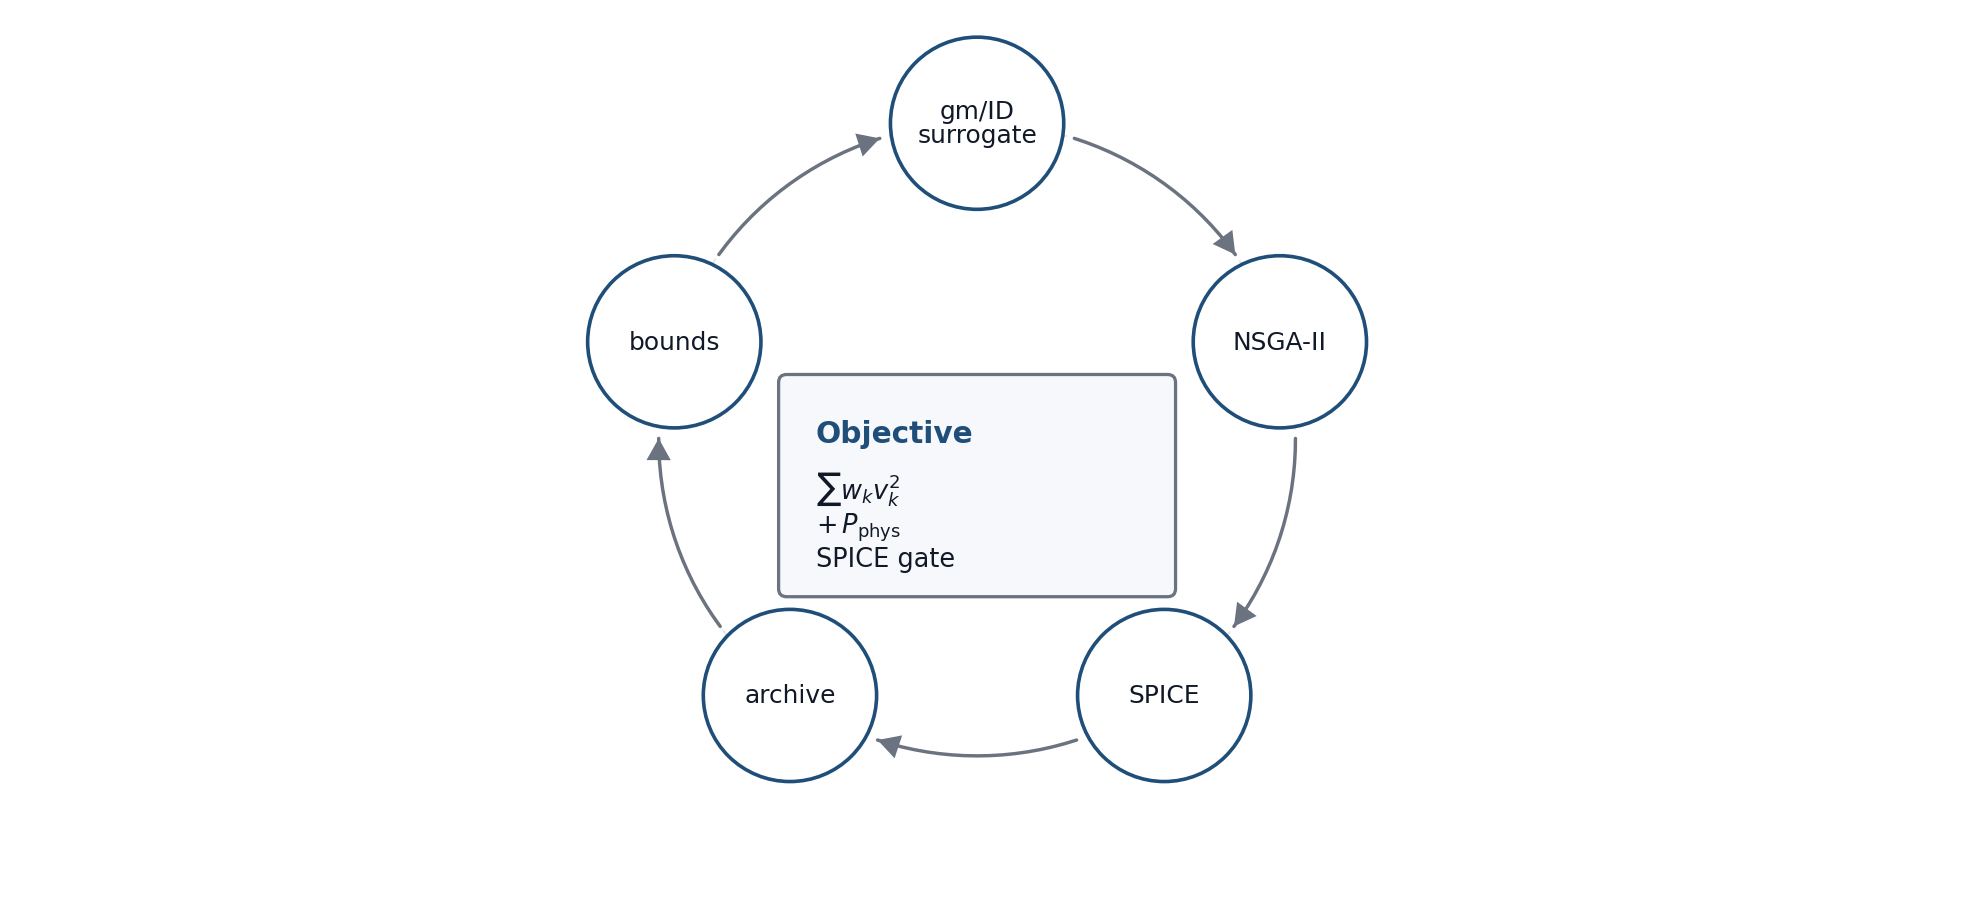
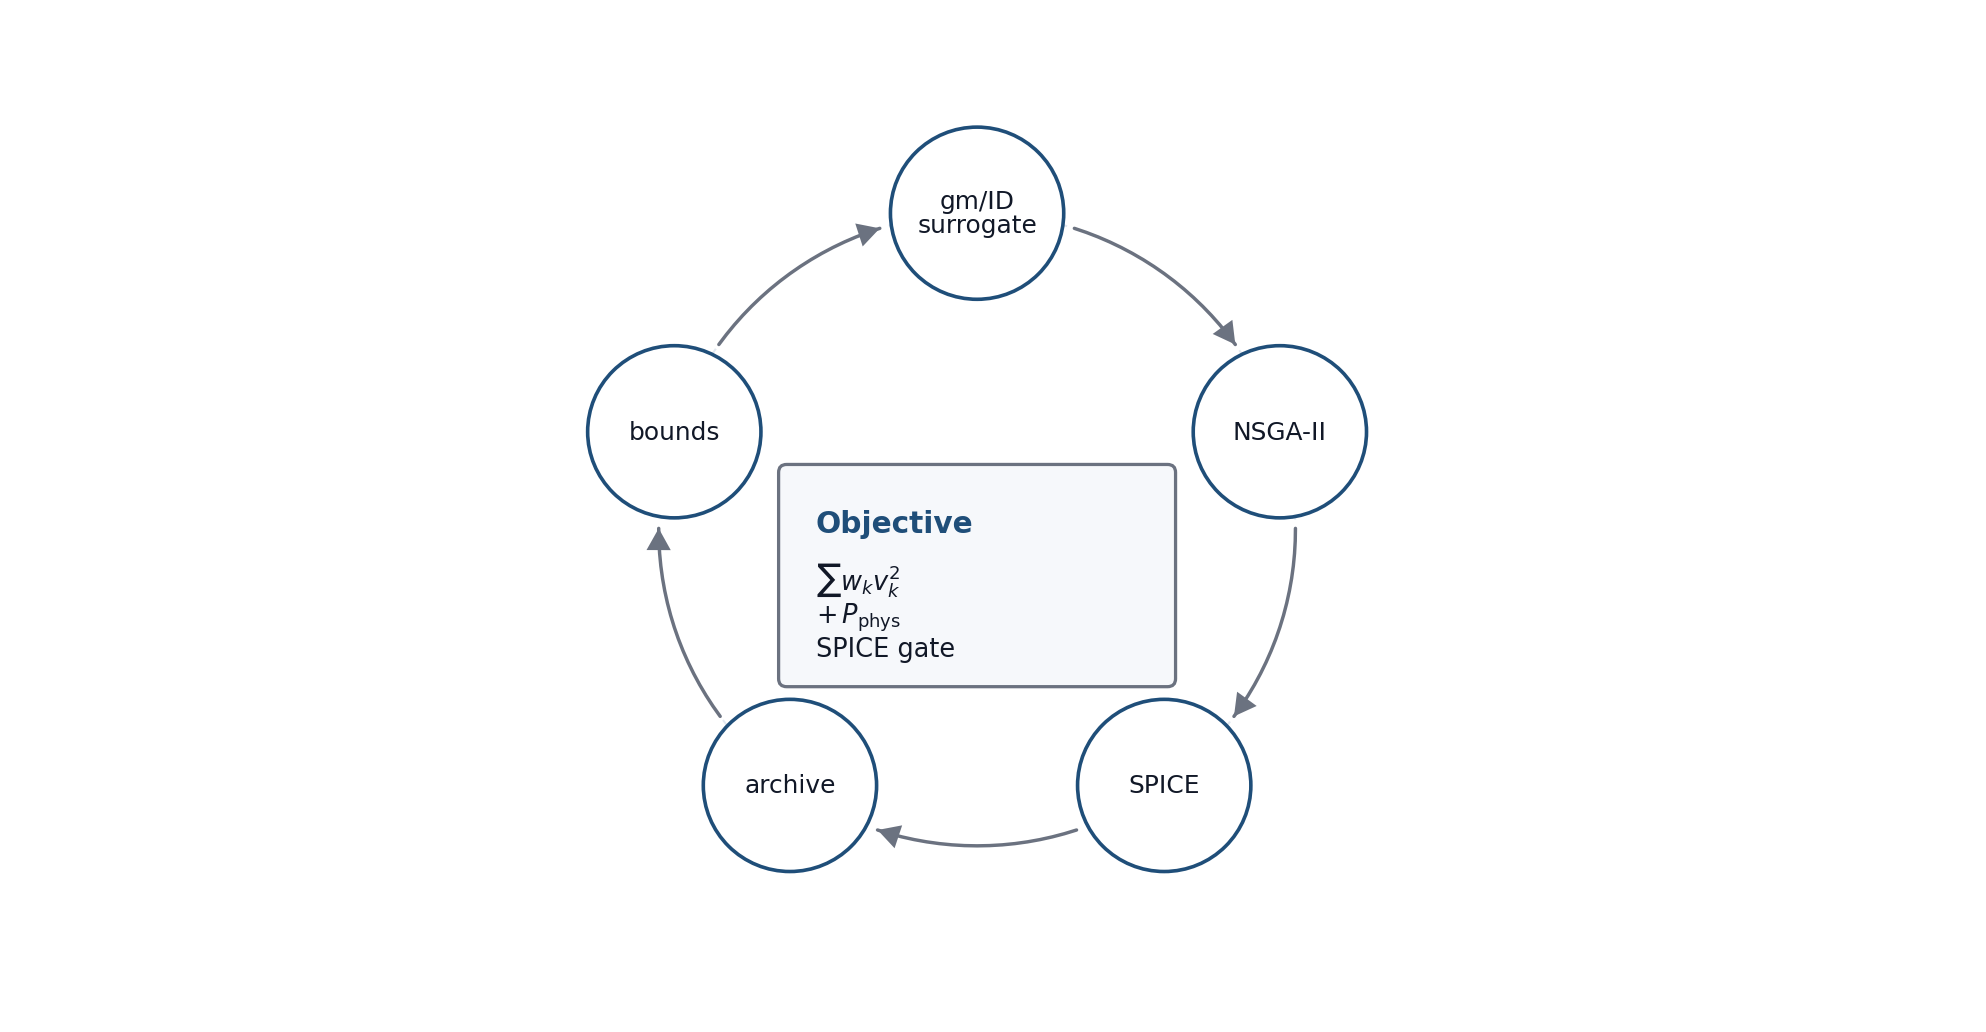
Restore execution loop proportions

diff --git a/scripts/plot_method_figures.py b/scripts/plot_method_figures.py
@@ -85,8 +85,8 @@ def draw_schema_state() -> plt.Figure:
 
 
 def draw_optimization_loop() -> plt.Figure:
-    fig, ax = base_fig(9.6, 4.25)
-    center = (4.72, 2.18)
+    fig, ax = base_fig(9.6, 4.9)
+    center = (4.72, 2.38)
     radius = 1.58
     ax.add_patch(
         Circle(
@@ -116,7 +116,7 @@ def draw_optimization_loop() -> plt.Figure:
     panel(
         ax,
         3.78,
-        1.44,
+        1.64,
         1.88,
         1.02,
         "Objective",
